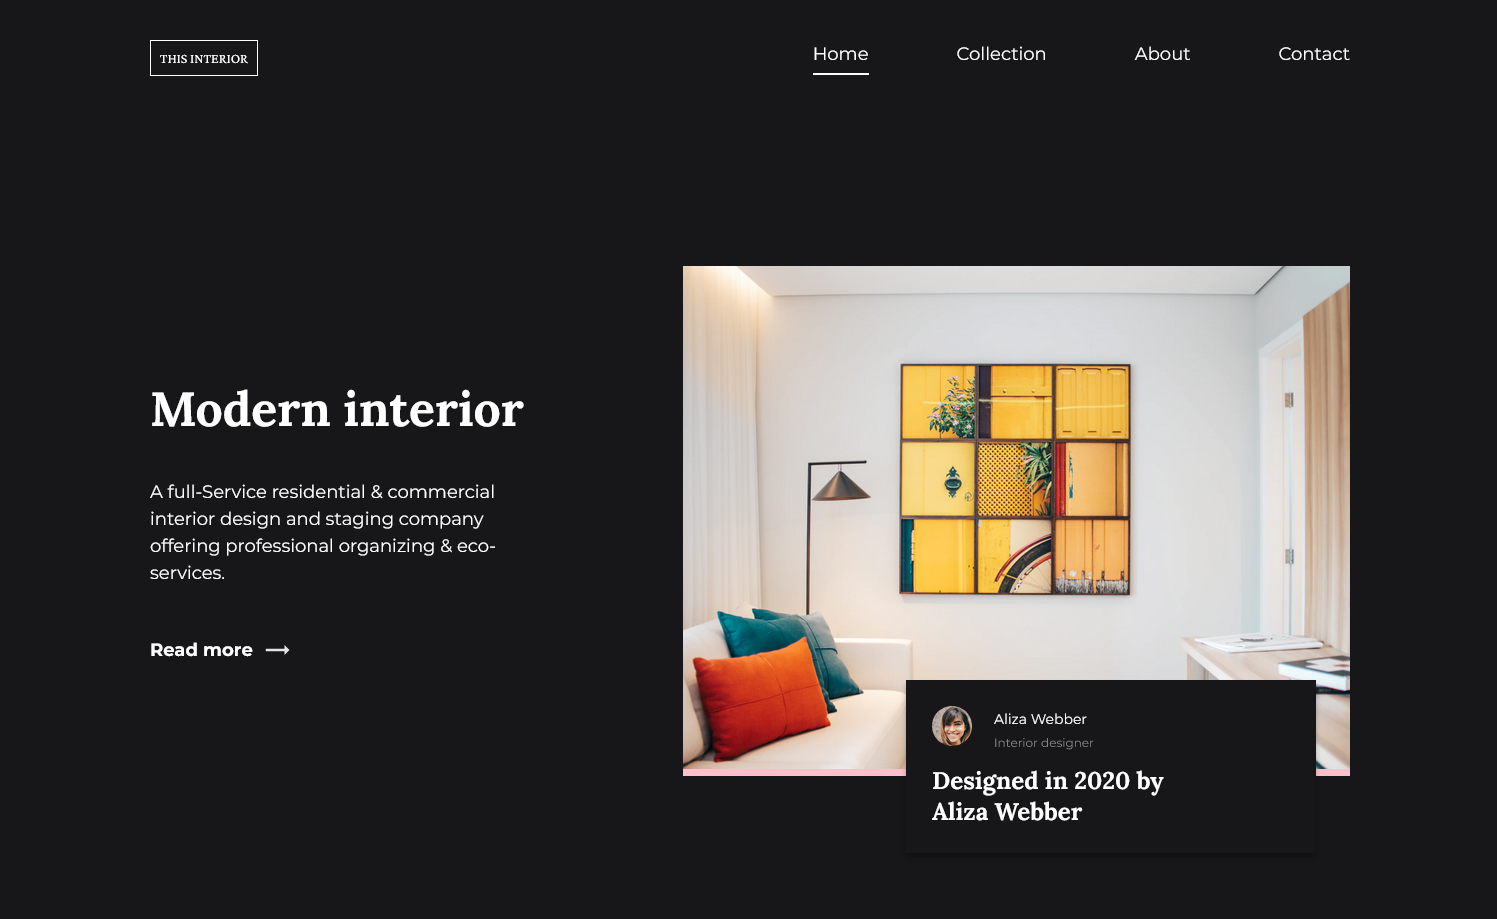
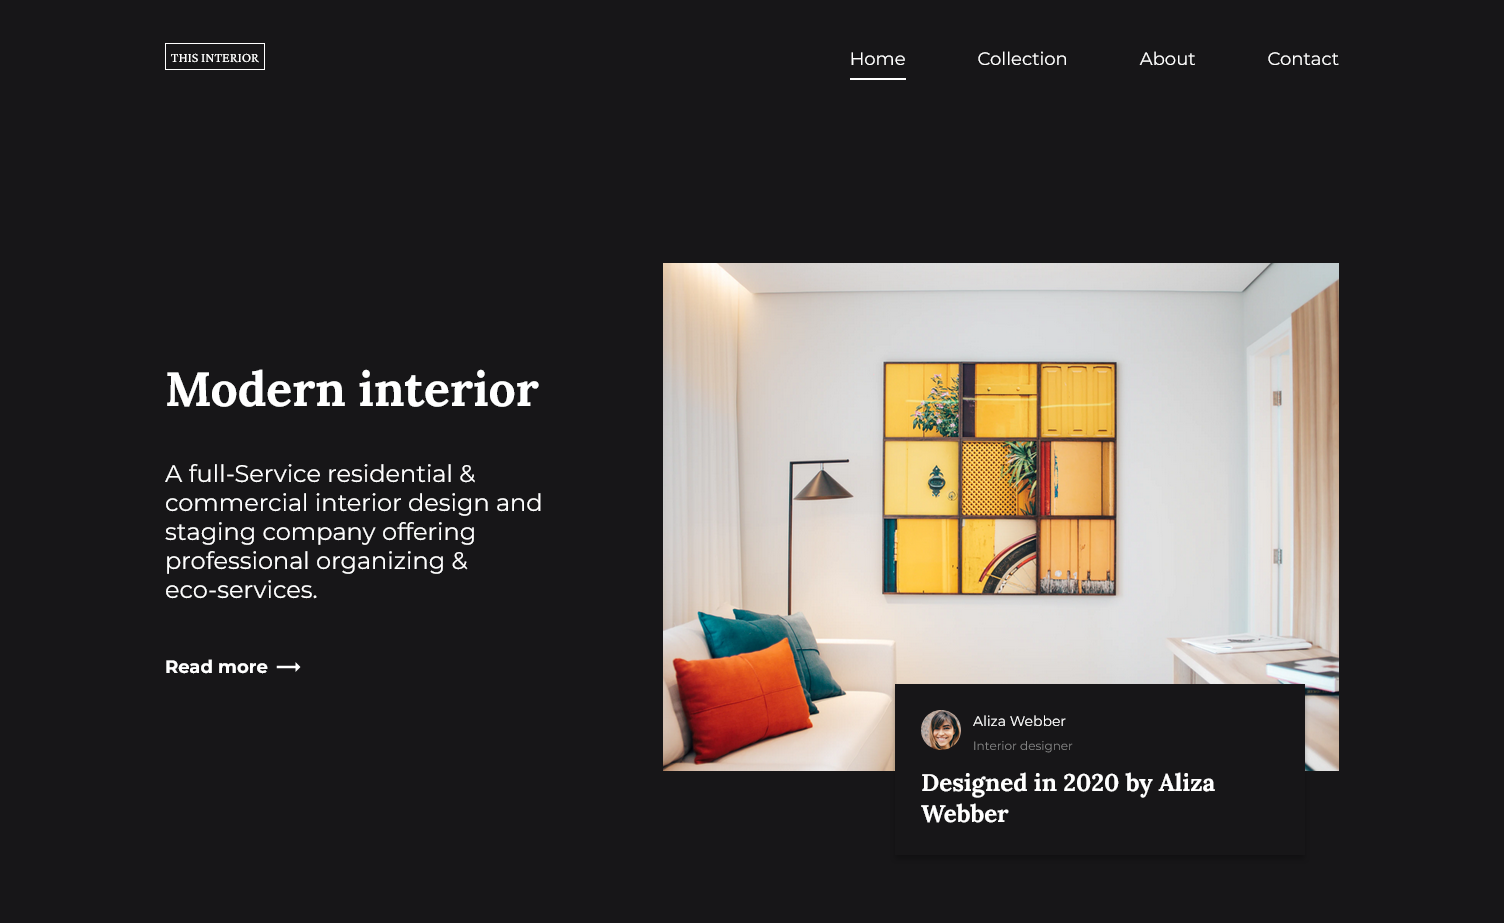
+ Ajustes de estilo generales.

diff --git a/css/style.css b/css/style.css
@@ -1,2 +1,2 @@
-*,*::after,*::before{margin:0;padding:0;-webkit-box-sizing:border-box;box-sizing:border-box}html,body{background:#171618;padding-bottom:61px;font-family:"Montserrat",sans-serif;font-size:14px;line-height:17px;font-weight:400;color:#fff}body{display:-ms-grid;display:grid;-ms-grid-rows:auto 1fr;grid-template-rows:auto 1fr}a{color:#fff;text-decoration:none;font-weight:500}a:active,a:focus,a:hover{color:#fff}img{width:100%}.container{margin:0 auto;padding:0 13px}.main-header{display:-webkit-box;display:-ms-flexbox;display:flex;-webkit-box-pack:justify;-ms-flex-pack:justify;justify-content:space-between;-webkit-box-align:center;-ms-flex-align:center;align-items:center;width:100%;padding-top:19px;padding-bottom:19px;margin-bottom:38px;background:#171618}.main-logo{font-family:'Crimson Pro', serif;font-weight:200;font-size:14px;line-height:16px;border:1px solid #fff;padding:.5rem;text-transform:uppercase}.main-menu{list-style:none;display:none;grid-gap:3rem;-webkit-transition:0.5s;transition:0.5s}.menu-item>a{font-size:18px;line-height:22px;padding-bottom:8px;-webkit-transition:opacity 1s;transition:opacity 1s}.menu-item>a.active{border-bottom:2px solid #fff}.menu-item>a:hover{opacity:.3;-webkit-transition:opacity 1s;transition:opacity 1s}.hero{height:100%}.hero-text-section{padding-right:1rem}.hero-title{font-family:"Lora",serif;font-weight:500;font-size:36px;line-height:46px;margin-bottom:25px}.hero-description{margin-bottom:25px;white-space:pre-line}.hero-cta{display:-webkit-box;display:-ms-flexbox;display:flex;-webkit-box-align:center;-ms-flex-align:center;align-items:center;gap:.7rem;margin-bottom:26px;font-weight:700;font-size:14px;line-height:17px}.hero-img-section{position:relative}.hero-img>img{height:100%;-o-object-fit:cover;object-fit:cover}.card{display:-webkit-box;display:-ms-flexbox;display:flex;gap:11px;-webkit-box-orient:vertical;-webkit-box-direction:normal;-ms-flex-direction:column;flex-direction:column;margin-top:1rem;width:300px;position:absolute;right:13px;bottom:-15%;margin-top:0;background:#171618;-webkit-box-shadow:0px 4px 4px rgba(0,0,0,0.25);box-shadow:0px 4px 4px rgba(0,0,0,0.25);padding:26px}.card-header{display:-webkit-box;display:-ms-flexbox;display:flex;gap:.5rem;-webkit-box-align:center;-ms-flex-align:center;align-items:center}.card-img>img{width:40px;height:40px;border-radius:50%}.card-user-name{display:block;font-weight:500;font-size:12px;line-height:15px;margin-bottom:5px}.card-user-description{display:block;font-weight:500;font-size:10px;line-height:12px;color:#828282}.card-title{grid-area:c-title;font-family:"Lora",serif;font-size:18px;line-height:23px;font-weight:700}.icon{width:auto;display:inline-block}.toggle-nav{background-color:transparent;border:none;padding-top:2px;z-index:2;cursor:pointer}#toggle-nav{display:none}#toggle-nav:checked+.toggle-nav{content:url("/img/icon/close.svg");height:40px;position:fixed;right:1rem;top:1rem}#toggle-nav:checked+.toggle-nav+.main-menu{height:100vh;position:absolute;right:0;left:0;z-index:1;top:0;bottom:0;display:-webkit-box;display:-ms-flexbox;display:flex;-webkit-box-orient:vertical;-webkit-box-direction:normal;-ms-flex-direction:column;flex-direction:column;-webkit-box-pack:center;-ms-flex-pack:center;justify-content:center;-webkit-box-align:center;-ms-flex-align:center;align-items:center;text-align:center;background:#171618;-webkit-transition:0.3s;transition:0.3s}@media screen and (min-width: 528px){.hero-description{white-space:normal}}@media screen and (min-width: 998px){html,body{height:100%;min-height:100vh;font-size:24px;line-height:29px;padding-bottom:0}.toggle-nav{display:none}.container{max-width:1200px;margin:0 auto;height:100%;padding-top:25px;padding-bottom:25px}.main-header{padding-top:42px;padding-bottom:42px;margin-bottom:0}.main-menu{display:-webkit-box;display:-ms-flexbox;display:flex}.main-logo{padding:.2rem}.hero{display:-ms-grid;display:grid;-ms-grid-columns:2fr 3fr;grid-template-columns:2fr 3fr;gap:2rem;-webkit-box-align:center;-ms-flex-align:center;align-items:center}.hero-title{font-size:48px;line-height:61px;margin-bottom:40px}.hero-description{margin-bottom:48px;white-space:pre-line}.hero-cta{font-size:18px;line-height:22px;margin-bottom:0;gap:.2rem}.card{right:34px;width:410px}.card-user-name{font-size:14px;line-height:17px;margin-bottom:8px}.card-user-description{font-size:12px;line-height:15px}.card-title{font-size:24px;line-height:31px}.icon{height:30px}}
+*,*::after,*::before{margin:0;padding:0;-webkit-box-sizing:border-box;box-sizing:border-box}html,body{background:#171618;padding-bottom:61px;font-family:"Montserrat",sans-serif;font-size:14px;line-height:17px;font-weight:400;color:#fff}body{display:-ms-grid;display:grid;-ms-grid-rows:auto 1fr;grid-template-rows:auto 1fr}a{color:#fff;text-decoration:none;font-weight:500}a:active,a:focus,a:hover{color:#fff}img{width:100%}.container{margin:0 auto;padding:0 13px}.main-header{display:-webkit-box;display:-ms-flexbox;display:flex;-webkit-box-pack:justify;-ms-flex-pack:justify;justify-content:space-between;-webkit-box-align:center;-ms-flex-align:center;align-items:center;width:100%;padding-top:19px;padding-bottom:19px;margin-bottom:38px;background:#171618}.main-logo{font-family:'Crimson Pro', serif;font-weight:200;font-size:14px;line-height:16px;border:1px solid #fff;padding:.5rem;text-transform:uppercase}.main-menu{list-style:none;display:none;grid-gap:3rem;-webkit-transition:0.5s;transition:0.5s}.menu-item>a{font-size:18px;line-height:22px;padding-bottom:8px;-webkit-transition:opacity 1s;transition:opacity 1s}.menu-item>a.active{border-bottom:2px solid #fff}.menu-item>a:hover{opacity:.3;-webkit-transition:opacity 1s;transition:opacity 1s}.hero{height:100%}.hero-text-section{padding-right:1rem}.hero-title{font-family:"Lora",serif;font-weight:500;font-size:36px;line-height:46px;margin-bottom:25px}.hero-description{margin-bottom:25px;white-space:pre-line}.hero-cta{display:-webkit-box;display:-ms-flexbox;display:flex;-webkit-box-align:center;-ms-flex-align:center;align-items:center;gap:.7rem;margin-bottom:26px;font-weight:700;font-size:14px;line-height:17px}.hero-img-section{position:relative}.hero-img>img{height:100%;-o-object-fit:cover;object-fit:cover}.card{display:-webkit-box;display:-ms-flexbox;display:flex;gap:11px;-webkit-box-orient:vertical;-webkit-box-direction:normal;-ms-flex-direction:column;flex-direction:column;margin-top:1rem;width:300px;position:absolute;right:13px;bottom:-15%;margin-top:0;background:#171618;-webkit-box-shadow:0px 4px 4px rgba(0,0,0,0.25);box-shadow:0px 4px 4px rgba(0,0,0,0.25);padding:26px}.card-header{display:-webkit-box;display:-ms-flexbox;display:flex;gap:.5rem;-webkit-box-align:center;-ms-flex-align:center;align-items:center}.card-img>img{width:40px;height:40px;border-radius:50%}.card-user-name{display:block;font-weight:500;font-size:12px;line-height:15px;margin-bottom:5px}.card-user-description{display:block;font-weight:500;font-size:10px;line-height:12px;color:#828282}.card-title{grid-area:c-title;font-family:"Lora",serif;font-size:18px;line-height:23px;font-weight:700}.icon{width:auto;display:inline-block}.toggle-nav{background-color:transparent;border:none;padding-top:2px;z-index:2;cursor:pointer}#toggle-nav{display:none}#toggle-nav:checked+.toggle-nav{content:url("../img/icon/close.svg");height:40px;position:fixed;right:1rem;top:1rem}#toggle-nav:checked+.toggle-nav+.main-menu{height:100vh;position:absolute;right:0;left:0;z-index:1;top:0;bottom:0;display:-webkit-box;display:-ms-flexbox;display:flex;-webkit-box-orient:vertical;-webkit-box-direction:normal;-ms-flex-direction:column;flex-direction:column;-webkit-box-pack:center;-ms-flex-pack:center;justify-content:center;-webkit-box-align:center;-ms-flex-align:center;align-items:center;text-align:center;background:#171618;-webkit-transition:0.3s;transition:0.3s}@media screen and (min-width: 528px){.hero-description{white-space:normal}}@media screen and (min-width: 998px){html,body{height:100%;min-height:100vh;font-size:24px;line-height:29px;padding-bottom:0}.toggle-nav{display:none}.container{max-width:1200px;margin:0 auto;height:100%;padding-top:25px;padding-bottom:25px}.main-header{padding-top:42px;padding-bottom:42px;margin-bottom:0}.main-menu{display:-webkit-box;display:-ms-flexbox;display:flex}.main-logo{padding:.2rem}.hero{display:-ms-grid;display:grid;-ms-grid-columns:2fr 3fr;grid-template-columns:2fr 3fr;gap:2rem;-webkit-box-align:center;-ms-flex-align:center;align-items:center}.hero-title{font-size:48px;line-height:61px;margin-bottom:40px}.hero-description{margin-bottom:48px;white-space:pre-line}.hero-cta{font-size:18px;line-height:22px;margin-bottom:0;gap:.2rem}.card{right:34px;width:410px}.card-user-name{font-size:14px;line-height:17px;margin-bottom:8px}.card-user-description{font-size:12px;line-height:15px}.card-title{font-size:24px;line-height:31px}.icon{height:30px}}
 /*# sourceMappingURL=style.css.map */

diff --git a/css/style.sass b/css/style.sass
@@ -183,7 +183,7 @@ img
 
   &:checked
     + .toggle-nav
-      content: url("/img/icon/close.svg")
+      content: url("../img/icon/close.svg")
       height: 40px
       position: fixed
       right: 1rem
